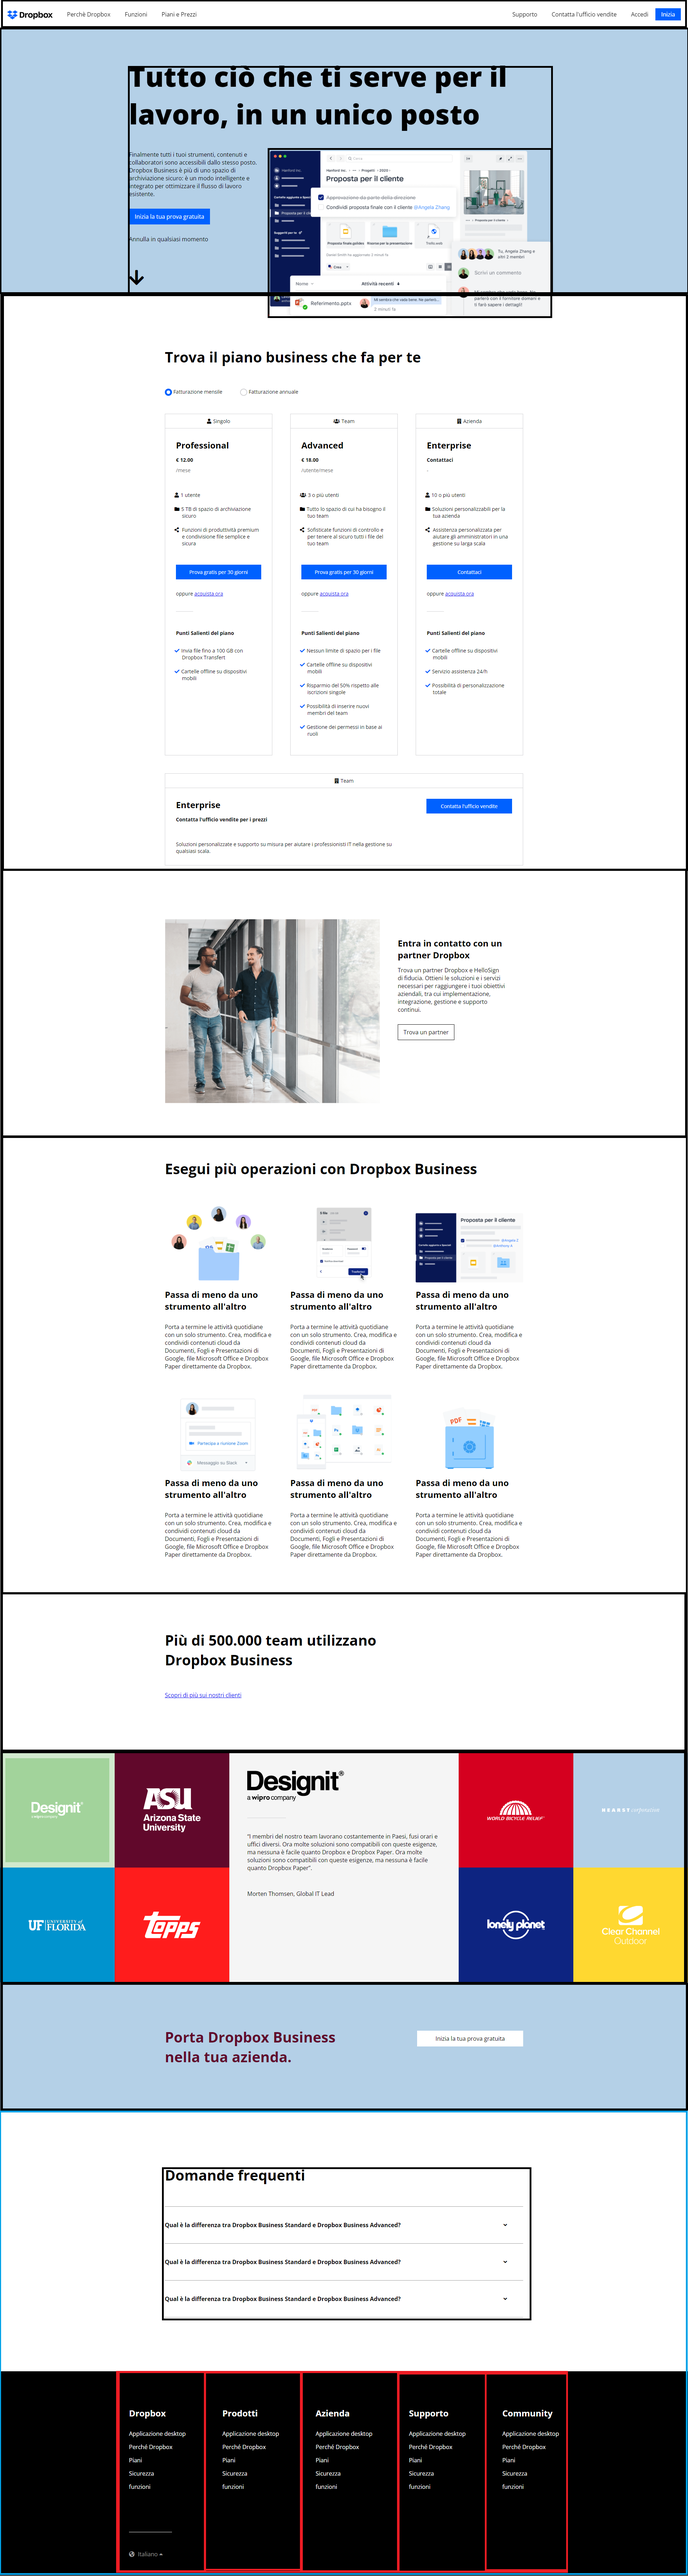
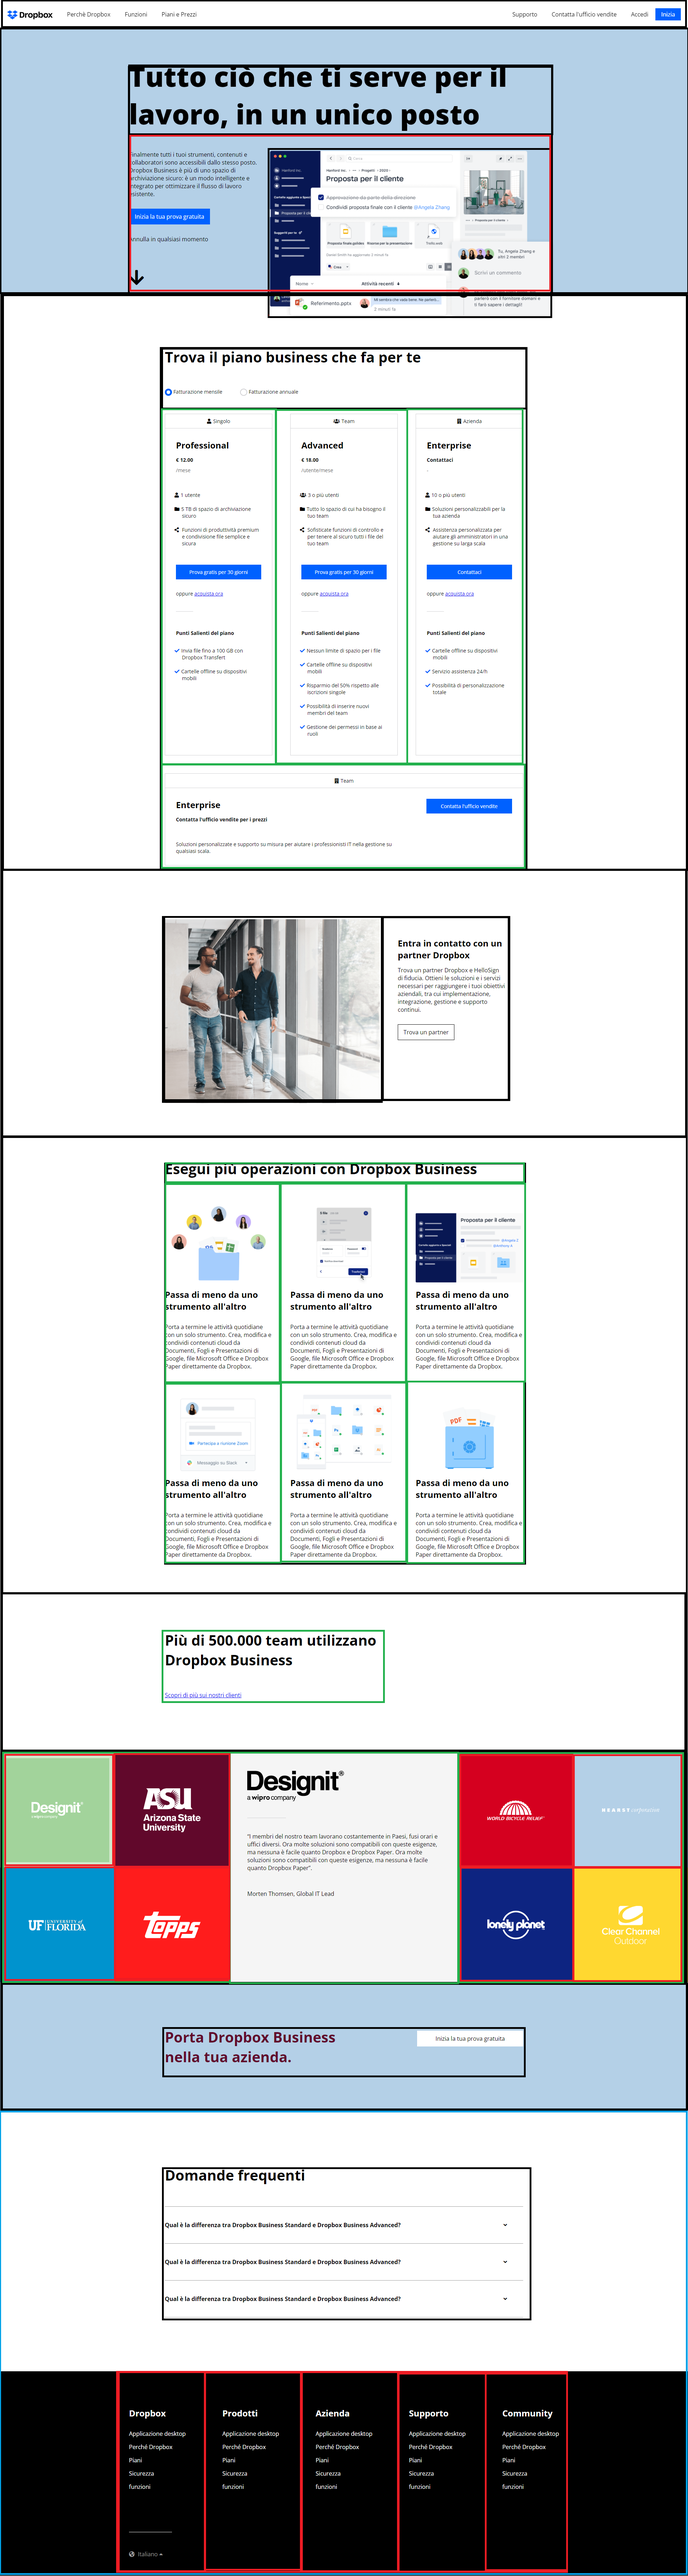
implemented macrostructure of header

diff --git a/index.html b/index.html
@@ -4,17 +4,30 @@
     <meta charset="UTF-8">
     <meta name="viewport" content="width=device-width, initial-scale=1.0">
     <title>Dropbox</title>
+    <!-- LINK CSS  -->
+    <link rel="stylesheet" href="style/style.css">
 </head>
 <body>
-    <header> <!-- header, height 80vh?, divided into 2 sections: nav-bar and main-header -->
-        <nav> <!-- nav-bar, no common-width, section into nav-bar organized in space-between -->
-            
+    <header class="border-test"> <!-- header, height 100px, nav-bar divided into 2 ul: left and right -->
+        <nav id="nav-header"> <!-- nav-bar, no common-width, ul into nav-bar organized in space-between -->
+            <ul class="border-test"> <!-- left ul -->
+                <li id="logo"></li>
+                <li></li>
+                <li></li>
+                <li></li>
+            </ul>
+            <ul class="border-test"> <!-- right ul -->
+                <li></li>
+                <li></li>
+                <li></li>
+                <li id="button" class="button-size"></li>
+            </ul>
         </nav>
-        <main-header> <!-- main-header, hdr-ftr-common-width, -->
-
-        </main-header>
     </header>
-    <main> <!-- main, devided into 6 sections, common-width except the penultimate section, -->
+    <main> <!-- main, devided into 7 sections, common-width except first and penultimate sections, -->
+        <section id="jumbotron"> <!-- section with main-title, jumbo-ftr-common-width -->
+
+        </section>
         <section></section>
         <section></section>
         <section></section>
@@ -26,7 +39,7 @@
         <section id="upper-footer"> <!-- upper-footer, common-width -->
 
         </section>
-        <section id="bottom-footer"> <!-- bottom-footer, hdr-ftr-coommon-width -->
+        <section id="bottom-footer"> <!-- bottom-footer, jumbo-ftr-common-width -->
 
         </section>
     </footer>

diff --git a/style/style.css b/style/style.css
@@ -4,3 +4,31 @@
     padding: 0;
     box-sizing: border-box;
 }
+.border-test {
+    border: 1px dashed black;
+}
+
+/* HEADER */
+
+#nav-header {
+    height: 50px;
+    display: flex;
+    justify-content: space-between;
+}
+#nav-header > ul {
+    height: 100%;
+    width: 30%;
+}
+ul {
+    list-style: none;
+}
+
+
+/* MAIN */
+
+
+
+
+/* FOOTER */
+
+
